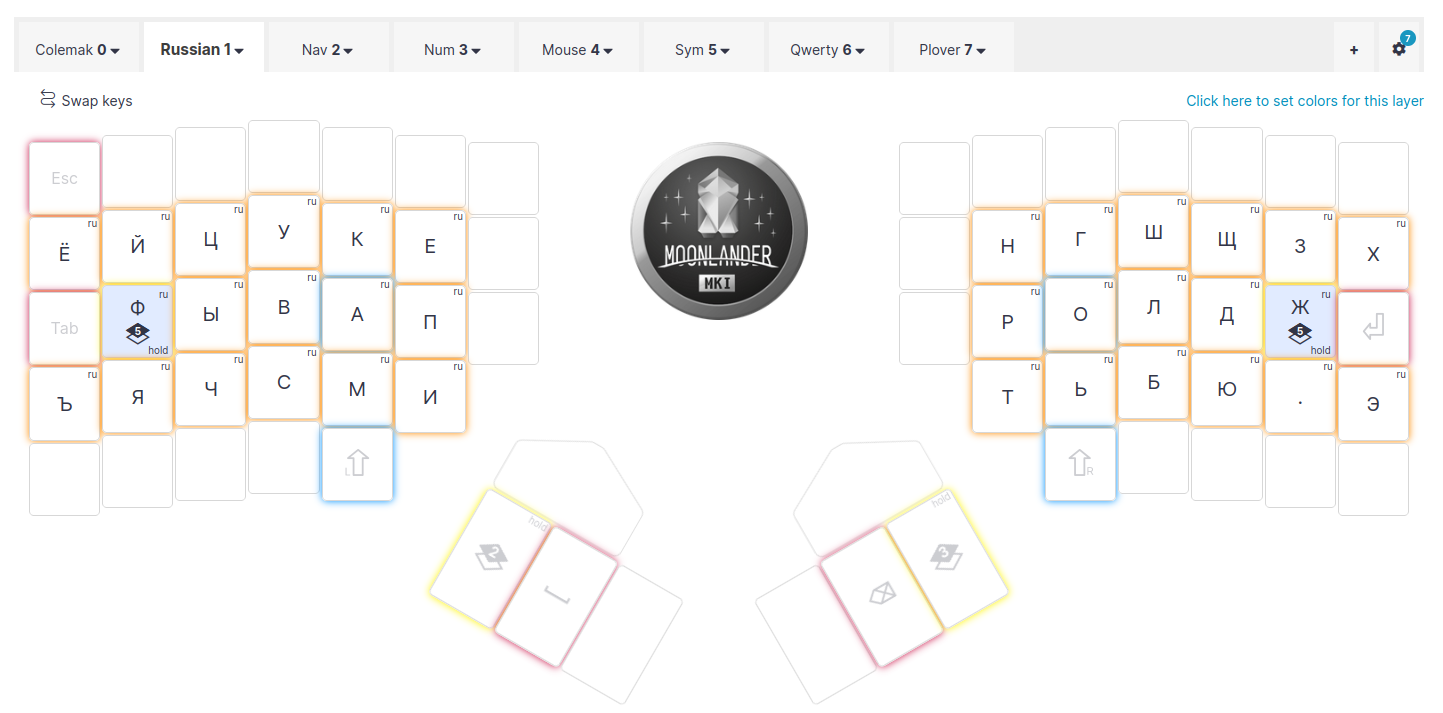
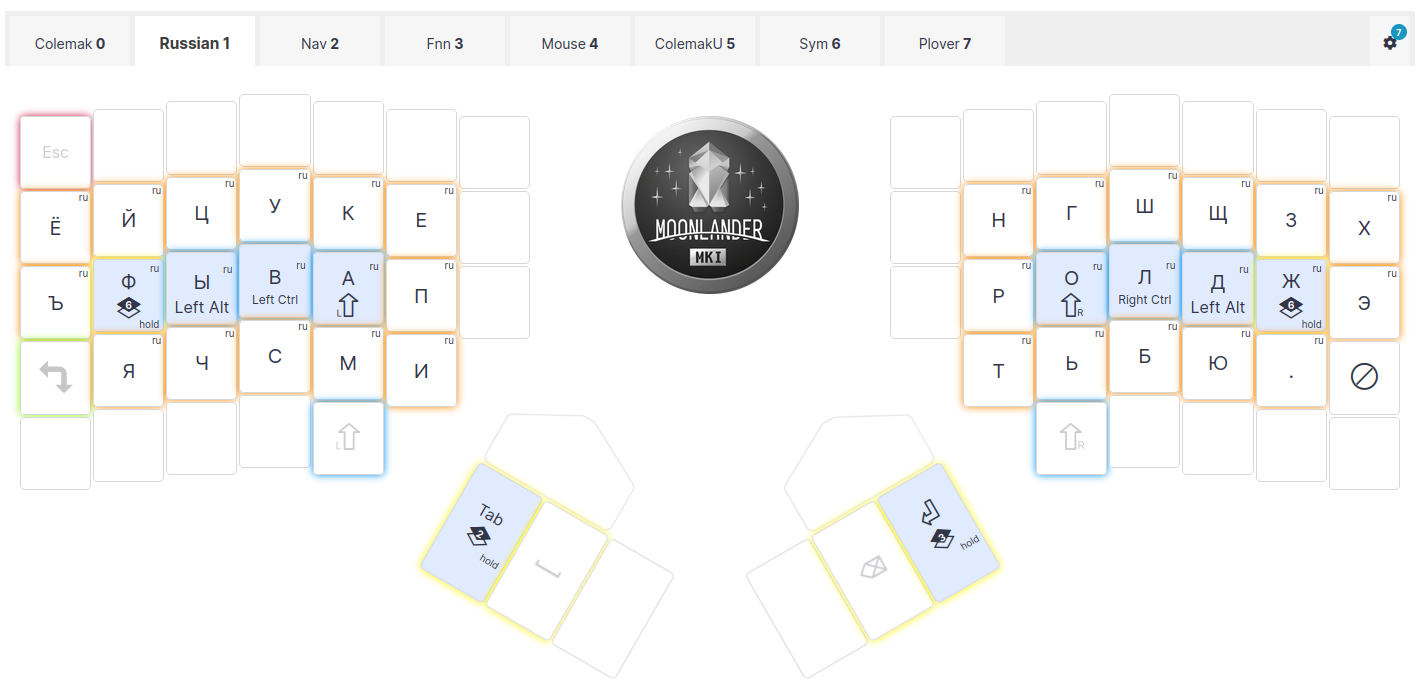
update the documentation

diff --git a/README.md b/README.md
@@ -6,11 +6,8 @@ Derived from configuration in
 This layout uses 56 keys only and fits to Iris rev4 keyboard.
 
 The most notable features are:
-- Colemak-DH on the base layer, Qwerty is possible
-- Ctrl and Alt modifiers are on the home row; however they are implemented as combos on the base layer. The reason
-  is that the usual Mod Taps feature makes the keyboard feels like laggy and not immediately responsive. The feature
-  also requires to select and get used to the timings. I used Mod Taps on the NUM layer only, since digits are
-  typed with more care and slower than text. 
+- Colemak-DH on the base layer
+- Shift, Ctrl and Alt modifiers are on the home row. 
 - There are paired Shift keys, they are explicitly dedicated and never overloaded.
   The usage of the dedicated Shift keys greatly reduces the number of errors when typing text.
 - Underscore is the default, `-` can be obtained either with Shift, or using Symbol layer 
@@ -29,6 +26,17 @@ The most notable features are:
   - `RCtrl = О + Л`, `LAlt = Л + Д`, `RCtrl + LAlt = О + Л + Д`
 
 - Hotkeys and symbols don't depend on the English/Russian system layout, achieved with `hotkey_conv` module.
+
+## Layout Screenshots
+
+<img src="img/0_colemak.png" width="768">
+<img src="img/1_russian.png" width="768">
+<img src="img/2_nav.png" width="768">
+<img src="img/3_fnn.png" width="768">
+<img src="img/4_mouse.png" width="768">
+<img src="img/5_colemak_u.png" width="768">
+<img src="img/6_sym.png" width="768">
+<img src="img/7_plover.png" width="768">
 
 ## Installation
 
@@ -151,14 +159,3 @@ bool process_record_user(uint16_t keycode, keyrecord_t *record) {
 ### Fixing the errors
 
 The most funny part goes here
-
-## Layout Screenshots
-
-<img src="img/0_colemak.png" width="768">
-<img src="img/1_russian.png" width="768">
-<img src="img/2_nav.png" width="768">
-<img src="img/3_num.png" width="768">
-<img src="img/4_mouse.png" width="768">
-<img src="img/5_sym.png" width="768">
-<img src="img/6_qwerty.png" width="768">
-<img src="img/7_plover.png" width="768">
